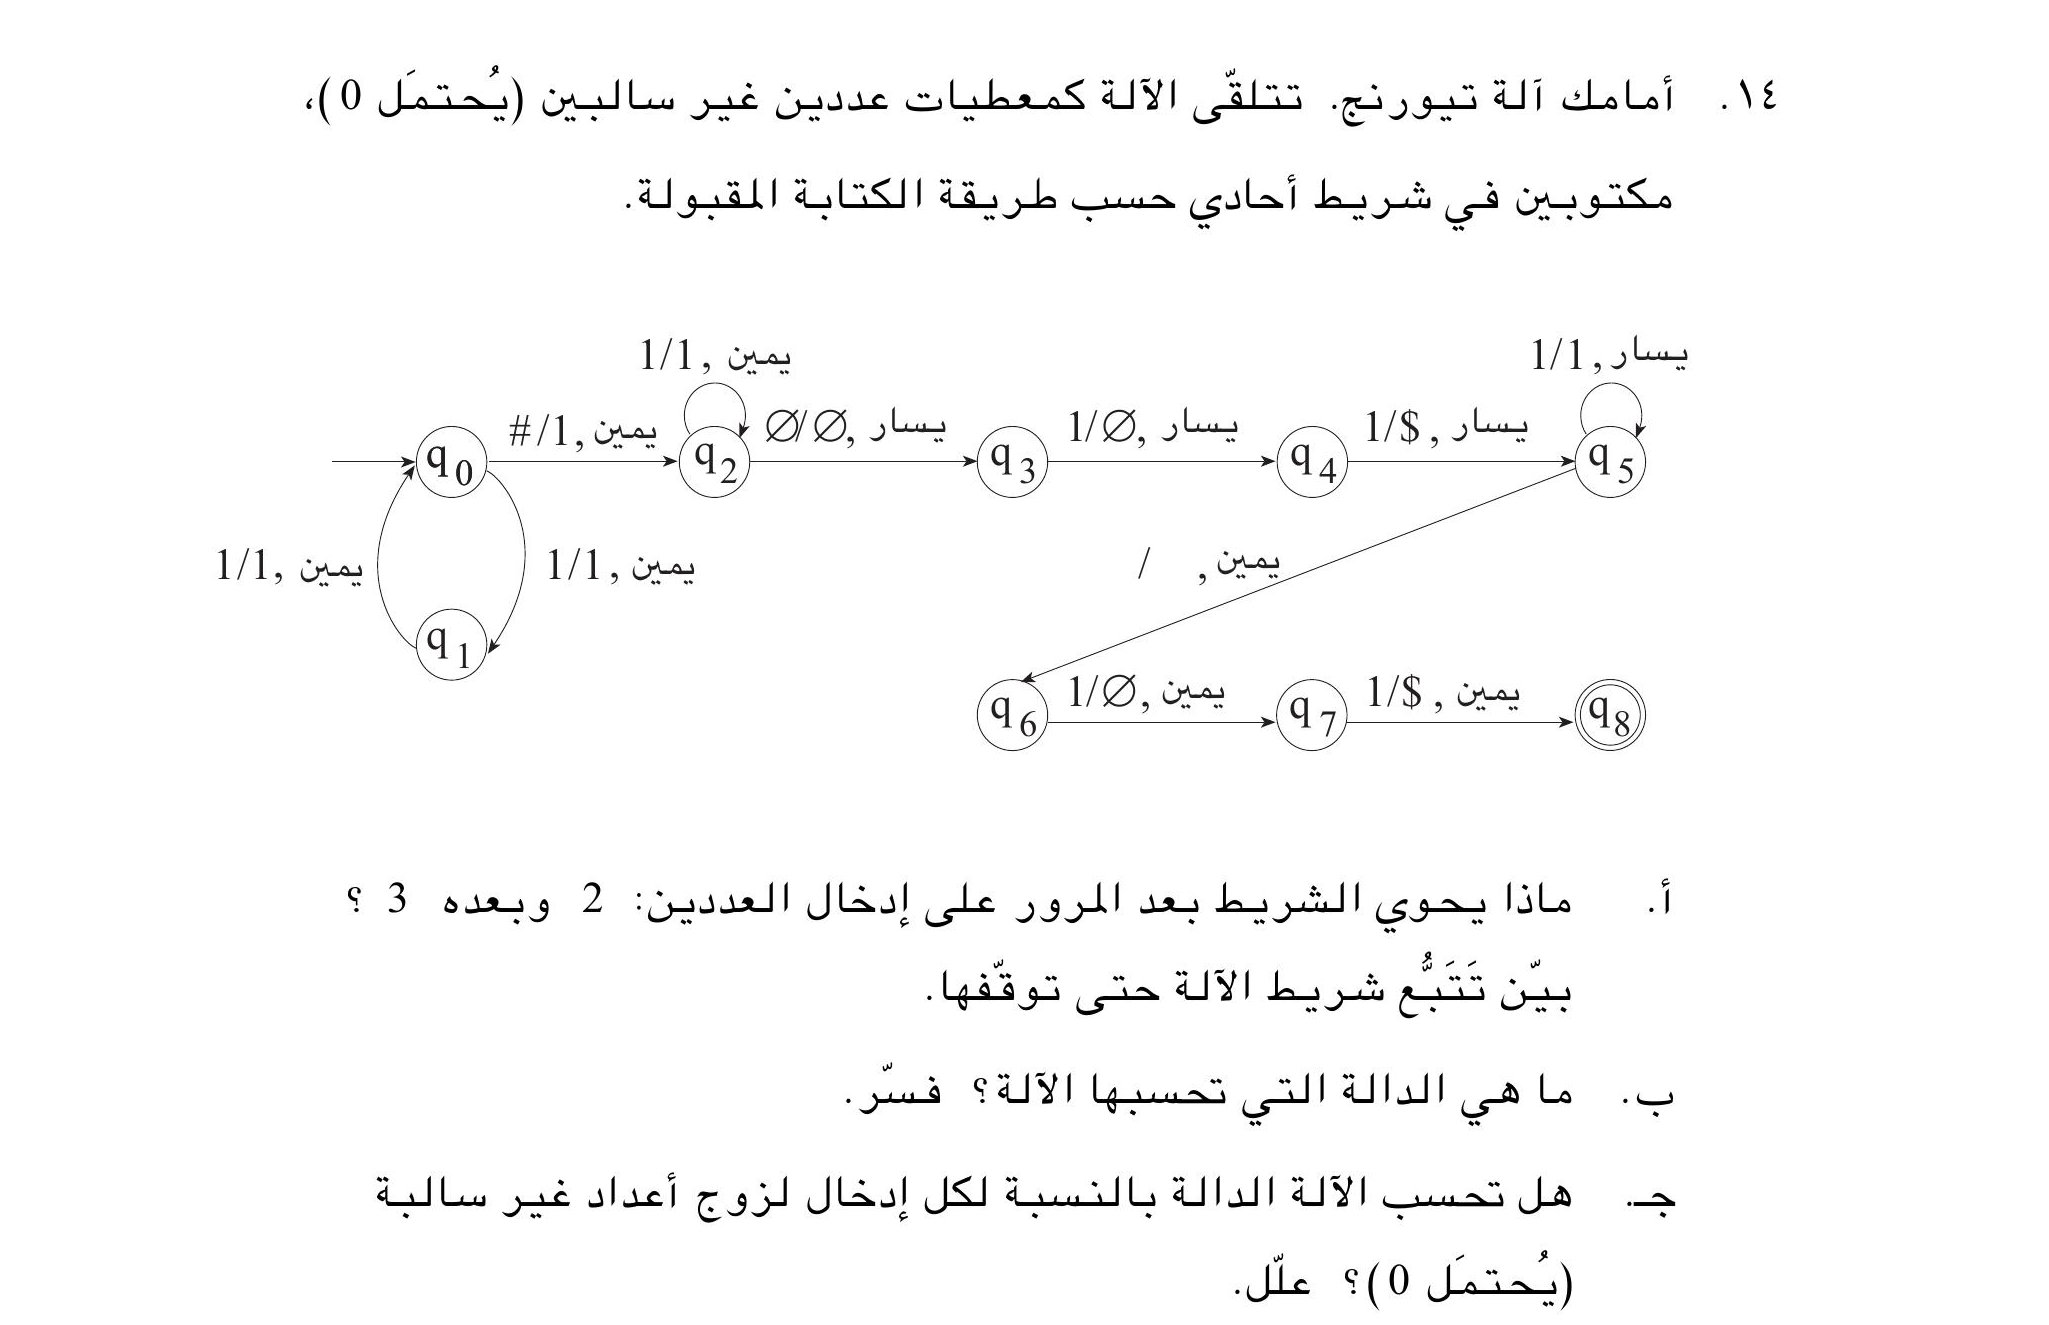
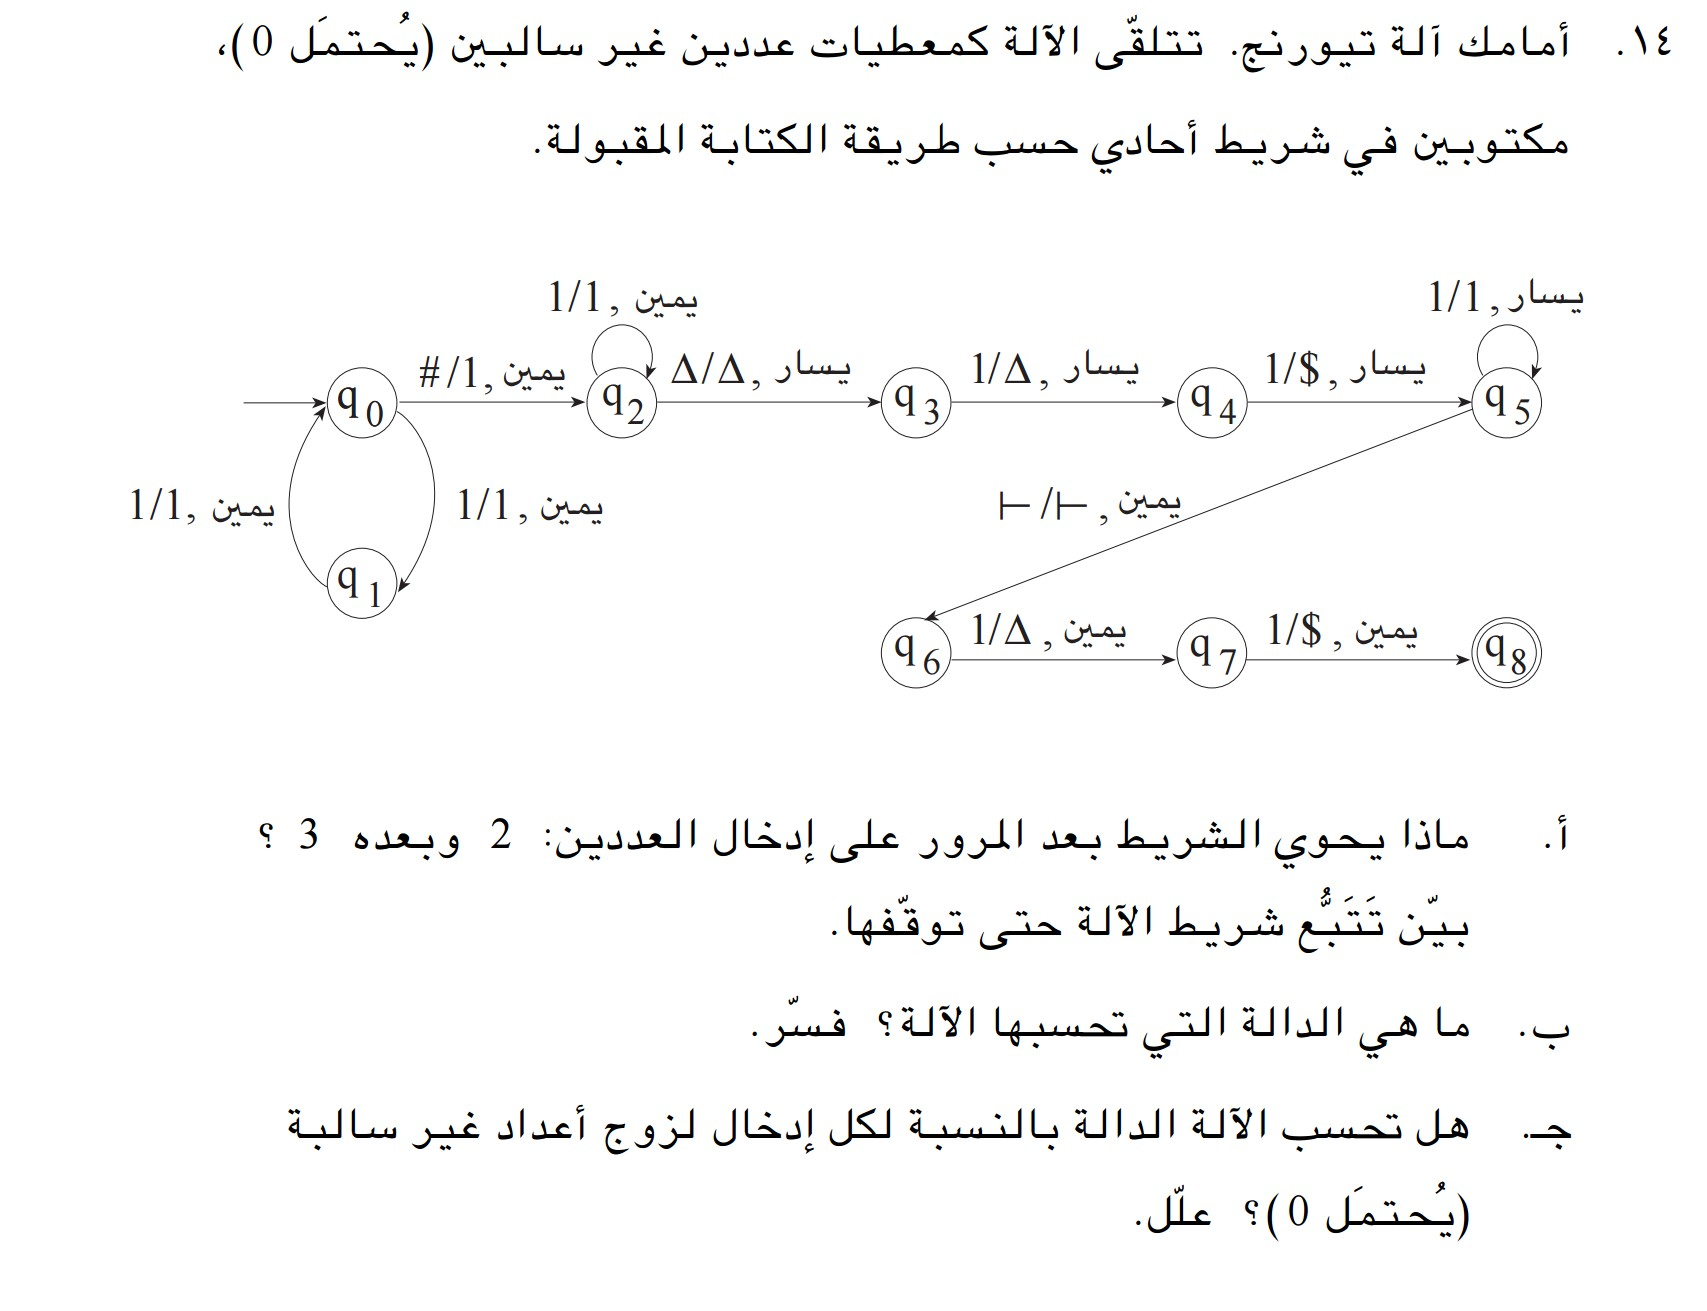
Add bagrut review 3 for computational models

diff --git a/src/exs/computational_models/bagrut_review03-all.tex b/src/exs/computational_models/bagrut_review03-all.tex
@@ -1,0 +1,30 @@
+\documentclass[14pt]{extarticle}
+\input{../../../scripts/tex_preamble.tex}
+
+\ifwithsols
+\title{حل مراجعة قبل البجروت}
+\else
+\title{مراجعة قبل البجروت}
+\fi
+
+\begin{document}
+
+\maketitle
+
+\input{../../../bagrut_questions/computational_models/DFA_2013_899205_13B.tex}
+\input{../../../bagrut_questions/computational_models/DFA_2013_899205_14A.tex}
+\input{../../../bagrut_questions/computational_models/DFA_2013_899205_14B.tex}
+\input{../../../bagrut_questions/computational_models/DFA_2012_899205_13B.tex}
+
+\input{../../../bagrut_questions/computational_models/languages_2002_899205_15.tex}
+\input{../../../bagrut_questions/computational_models/languages_2003_899205_16.tex}
+\input{../../../bagrut_questions/computational_models/languages_2014_899205_14B.tex}
+\input{../../../bagrut_questions/computational_models/regularity_2005_899205_15.tex}
+\input{../../../bagrut_questions/computational_models/regularity_2004_899205_14.tex}
+
+\input{../../../bagrut_questions/computational_models/PDA_2002_899205_11.tex}
+
+\input{../../../bagrut_questions/computational_models/turing_2018_899381_12B.tex}
+\input{../../../bagrut_questions/computational_models/turing_2002_899205_14.tex}
+
+\end{document}

diff --git a/bagrut_questions/computational_models/DFA_2012_899205_13B.tex b/bagrut_questions/computational_models/DFA_2012_899205_13B.tex
@@ -1,0 +1,16 @@
+\subsection*{سؤال 13b امتحان 899205 سنة 2012}
+\addcontentsline{toc}{subsection}{سؤال 13b امتحان 899205 سنة 2012}
+
+\noindent
+\makebox[\textwidth][c]{\includegraphics[width=0.9\paperwidth,keepaspectratio]{ ../../../bagrut_questions/computational_models/DFA_2012_899205_13B.jpg }%
+}%
+
+\ifwithsols
+\begin{boxSolution}[سؤال 13b امتحان 899205 سنة 2012]
+\begin{enumerate}[itemsep=1.5em, label=\alph*.]
+    \item // TODO:
+\end{enumerate}
+\end{boxSolution}
+
+\clearpage
+\fi

diff --git a/bagrut_questions/computational_models/DFA_2013_899205_13B.tex b/bagrut_questions/computational_models/DFA_2013_899205_13B.tex
@@ -1,0 +1,16 @@
+\subsection*{سؤال 13b امتحان 899205 سنة 2013}
+\addcontentsline{toc}{subsection}{سؤال 13b امتحان 899205 سنة 2013}
+
+\noindent
+\makebox[\textwidth][c]{\includegraphics[width=0.8\paperwidth,keepaspectratio]{ ../../../bagrut_questions/computational_models/DFA_2013_899205_13B.jpg }%
+}%
+
+\ifwithsols
+\begin{boxSolution}[سؤال 13b امتحان 899205 سنة 2013]
+\begin{enumerate}[itemsep=1.5em, label=\alph*.]
+    \item // TODO:
+\end{enumerate}
+\end{boxSolution}
+
+\clearpage
+\fi

diff --git a/bagrut_questions/computational_models/DFA_2013_899205_14A.tex b/bagrut_questions/computational_models/DFA_2013_899205_14A.tex
@@ -1,0 +1,16 @@
+\subsection*{سؤال 14a امتحان 899205 سنة 2013}
+\addcontentsline{toc}{subsection}{سؤال 14a امتحان 899205 سنة 2013}
+
+\noindent
+\makebox[\textwidth][c]{\includegraphics[width=0.9\paperwidth,keepaspectratio]{ ../../../bagrut_questions/computational_models/DFA_2013_899205_14A.jpg }%
+}%
+
+\ifwithsols
+\begin{boxSolution}[سؤال 14a امتحان 899205 سنة 2013]
+\begin{enumerate}[itemsep=1.5em, label=\alph*.]
+    \item // TODO:
+\end{enumerate}
+\end{boxSolution}
+
+\clearpage
+\fi

diff --git a/bagrut_questions/computational_models/DFA_2013_899205_14B.tex b/bagrut_questions/computational_models/DFA_2013_899205_14B.tex
@@ -1,0 +1,16 @@
+\subsection*{سؤال 14b امتحان 899205 سنة 2013}
+\addcontentsline{toc}{subsection}{سؤال 14b امتحان 899205 سنة 2013}
+
+\noindent
+\makebox[\textwidth][c]{\includegraphics[width=0.9\paperwidth,keepaspectratio]{ ../../../bagrut_questions/computational_models/DFA_2013_899205_14B.jpg }%
+}%
+
+\ifwithsols
+\begin{boxSolution}[سؤال 14b امتحان 899205 سنة 2013]
+\begin{enumerate}[itemsep=1.5em, label=\alph*.]
+    \item // TODO:
+\end{enumerate}
+\end{boxSolution}
+
+\clearpage
+\fi

diff --git a/bagrut_questions/computational_models/PDA_2002_899205_11.tex b/bagrut_questions/computational_models/PDA_2002_899205_11.tex
@@ -1,0 +1,16 @@
+\subsection*{سؤال 11 امتحان 899205 سنة 2002}
+\addcontentsline{toc}{subsection}{سؤال 11 امتحان 899205 سنة 2002}
+
+\noindent
+\makebox[\textwidth][c]{\includegraphics[width=0.9\paperwidth,keepaspectratio]{ ../../../bagrut_questions/computational_models/PDA_2002_899205_11.png }%
+}%
+
+\ifwithsols
+\begin{boxSolution}[سؤال 11 امتحان 899205 سنة 2002]
+\begin{enumerate}[itemsep=1.5em, label=\alph*.]
+    \item // TODO:
+\end{enumerate}
+\end{boxSolution}
+
+\clearpage
+\fi

diff --git a/bagrut_questions/computational_models/languages_2002_899205_15.tex b/bagrut_questions/computational_models/languages_2002_899205_15.tex
@@ -1,0 +1,16 @@
+\subsection*{سؤال 15 امتحان 899205 سنة 2002}
+\addcontentsline{toc}{subsection}{سؤال 15 امتحان 899205 سنة 2002}
+
+\noindent
+\makebox[\textwidth][c]{\includegraphics[width=0.9\paperwidth,keepaspectratio]{ ../../../bagrut_questions/computational_models/languages_2002_899205_15.png }%
+}%
+
+\ifwithsols
+\begin{boxSolution}[سؤال 15 امتحان 899205 سنة 2002]
+\begin{enumerate}[itemsep=1.5em, label=\alph*.]
+    \item // TODO:
+\end{enumerate}
+\end{boxSolution}
+
+\clearpage
+\fi

diff --git a/bagrut_questions/computational_models/languages_2003_899205_16.tex b/bagrut_questions/computational_models/languages_2003_899205_16.tex
@@ -1,0 +1,16 @@
+\subsection*{سؤال 16 امتحان 899205 سنة 2003}
+\addcontentsline{toc}{subsection}{سؤال 16 امتحان 899205 سنة 2003}
+
+\noindent
+\makebox[\textwidth][c]{\includegraphics[width=0.9\paperwidth,keepaspectratio]{ ../../../bagrut_questions/computational_models/languages_2003_899205_16.png }%
+}%
+
+\ifwithsols
+\begin{boxSolution}[سؤال 16 امتحان 899205 سنة 2003]
+\begin{enumerate}[itemsep=1.5em, label=\alph*.]
+    \item // TODO:
+\end{enumerate}
+\end{boxSolution}
+
+\clearpage
+\fi

diff --git a/bagrut_questions/computational_models/languages_2014_899205_14B.tex b/bagrut_questions/computational_models/languages_2014_899205_14B.tex
@@ -1,0 +1,16 @@
+\subsection*{سؤال 14b امتحان 899205 سنة 2014}
+\addcontentsline{toc}{subsection}{سؤال 14b امتحان 899205 سنة 2014}
+
+\noindent
+\makebox[\textwidth][c]{\includegraphics[width=0.9\paperwidth,keepaspectratio]{ ../../../bagrut_questions/computational_models/languages_2014_899205_14B.jpg }%
+}%
+
+\ifwithsols
+\begin{boxSolution}[سؤال 14b امتحان 899205 سنة 2014]
+\begin{enumerate}[itemsep=1.5em, label=\alph*.]
+    \item // TODO:
+\end{enumerate}
+\end{boxSolution}
+
+\clearpage
+\fi

diff --git a/bagrut_questions/computational_models/regularity_2004_899205_14.tex b/bagrut_questions/computational_models/regularity_2004_899205_14.tex
@@ -1,0 +1,16 @@
+\subsection*{سؤال 14 امتحان 899205 سنة 2004}
+\addcontentsline{toc}{subsection}{سؤال 14 امتحان 899205 سنة 2004}
+
+\noindent
+\makebox[\textwidth][c]{\includegraphics[width=0.9\paperwidth,keepaspectratio]{ ../../../bagrut_questions/computational_models/regularity_2004_899205_14.jpg }%
+}%
+
+\ifwithsols
+\begin{boxSolution}[سؤال 14 امتحان 899205 سنة 2004]
+\begin{enumerate}[itemsep=1.5em, label=\alph*.]
+    \item // TODO:
+\end{enumerate}
+\end{boxSolution}
+
+\clearpage
+\fi

diff --git a/bagrut_questions/computational_models/regularity_2005_899205_15.tex b/bagrut_questions/computational_models/regularity_2005_899205_15.tex
@@ -1,0 +1,16 @@
+\subsection*{سؤال 15 امتحان 899205 سنة 2005}
+\addcontentsline{toc}{subsection}{سؤال 15 امتحان 899205 سنة 2005}
+
+\noindent
+\makebox[\textwidth][c]{\includegraphics[width=0.9\paperwidth,keepaspectratio]{ ../../../bagrut_questions/computational_models/regularity_2005_899205_15.png }%
+}%
+
+\ifwithsols
+\begin{boxSolution}[سؤال 15 امتحان 899205 سنة 2005]
+\begin{enumerate}[itemsep=1.5em, label=\alph*.]
+    \item // TODO:
+\end{enumerate}
+\end{boxSolution}
+
+\clearpage
+\fi

diff --git a/bagrut_questions/computational_models/turing_2002_899205_14.tex b/bagrut_questions/computational_models/turing_2002_899205_14.tex
@@ -1,0 +1,16 @@
+\subsection*{سؤال 14 امتحان 899205 سنة 2002}
+\addcontentsline{toc}{subsection}{سؤال 14 امتحان 899205 سنة 2002}
+
+\noindent
+\makebox[\textwidth][c]{\includegraphics[width=0.9\paperwidth,keepaspectratio]{ ../../../bagrut_questions/computational_models/turing_2002_899205_14.jpg }%
+}%
+
+\ifwithsols
+\begin{boxSolution}[سؤال 14 امتحان 899205 سنة 2002]
+\begin{enumerate}[itemsep=1.5em, label=\alph*.]
+    \item // TODO:
+\end{enumerate}
+\end{boxSolution}
+
+\clearpage
+\fi